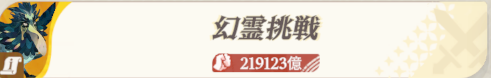
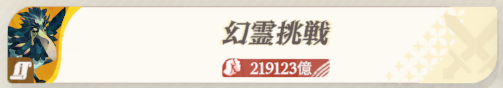
Add --step1 option to select entry button (幻霊挑戦 / 挑戦 / random)
- afk_journey_auto.py: add --step1 argparse option; Step1 now clicks
  the specified button (幻霊挑戦, 挑戦, or random choice between them)
- make_templates.py: add 挑戦_btn cutout entry
- templates/: add 挑戦_btn.png; update 幻霊挑戦_btn.png
- README.md: update flowchart, template table, and usage examples
- .gitignore: exclude .claude/

diff --git a/afk_journey_auto.py b/afk_journey_auto.py
@@ -22,10 +22,12 @@ AFK Journey - 幻霊挑戦 自動操作スクリプト
 """
 
 import os
+import argparse
 import ctypes
 import pyautogui
 import cv2
 import numpy as np
+import random
 import time
 import sys
 import logging
@@ -65,7 +67,8 @@ WINDOW_TITLE = "AFK Journey"
 # テンプレート画像ファイルのパス（スクリプトと同じフォルダに置く）
 # ★ 下記のパスを実際の画像ファイルのパスに変更してください
 TEMPLATES = {
-    "幻霊挑戦_btn":     "templates/幻霊挑戦_btn.png",       # Step1: 「幻霊挑戦」ボタン
+    "幻霊挑戦_btn":     "templates/幻霊挑戦_btn.png",       # Step1: 「幻霊挑戦」ボタン（左下）
+    "挑戦_btn":         "templates/挑戦_btn.png",           # Step1: 「挑戦」ボタン（右下）
     "クリア編成_btn":   "templates/クリア編成_btn.png",     # Step2: 「クリア編成」ボタン
     "一括適用_btn":     "templates/一括適用_btn.png",       # Step3: 「一括適用」ボタン
     "オート挑戦_btn":   "templates/オート挑戦_btn.png",     # Step4: 「オート挑戦」ボタン
@@ -320,9 +323,10 @@ def activate_game_window():
         return False
 
 
-def run():
+def run(step1_mode: str):
     log.info("=" * 60)
     log.info("AFK Journey 幻霊挑戦 自動操作 開始")
+    log.info(f"Step1モード: {step1_mode}")
     log.info("停止: Ctrl+C  または  マウスを画面左上角へ移動")
     log.info("=" * 60)
 
@@ -335,14 +339,23 @@ def run():
         sys.exit(1)
     log.info("  操作開始！")
 
-    # ── Step1: 幻霊挑戦ボタンをクリック ──────────────────────────────────
-    log.info("[Step1] 幻霊挑戦ボタンを探しています...")
+    # ── Step1: モードに応じたボタンをクリック ────────────────────────────
+    if step1_mode == "random":
+        target_key = random.choice(["幻霊挑戦_btn", "挑戦_btn"])
+        log.info(f"[Step1] ランダム選択: {target_key}")
+    elif step1_mode == "挑戦":
+        target_key = "挑戦_btn"
+    else:
+        target_key = "幻霊挑戦_btn"
+
+    log.info(f"[Step1] {target_key} を探しています...")
     screen_data = screenshot_np()
-    if not click_template("幻霊挑戦_btn", screen_data, wait=WAIT_SCREEN_TRANS):
-        log.error("「幻霊挑戦」ボタンが見つかりません。")
+    if click_template(target_key, screen_data, wait=WAIT_SCREEN_TRANS):
+        log.info(f"[Step1] 完了（{target_key}）→ 幻霊先鋒ステージ画面へ遷移中...")
+    else:
+        log.error(f"「{target_key}」が見つかりません。")
         log.error("ゲームを「ステージ選択」画面にしてから再実行してください。")
         sys.exit(1)
-    log.info("[Step1] 完了 → 幻霊先鋒ステージ画面へ遷移中...")
 
     # ── Step2以降のメインループ ───────────────────────────────────────────
     while retry_count < MAX_RETRIES:
@@ -440,8 +453,17 @@ def run():
 # ─── エントリーポイント ──────────────────────────────────────────────────────
 
 if __name__ == "__main__":
+    parser = argparse.ArgumentParser(description="AFK Journey 幻霊挑戦 自動操作")
+    parser.add_argument(
+        "--step1",
+        choices=["幻霊挑戦", "挑戦", "random"],
+        default="幻霊挑戦",
+        help="Step1で押すボタンを選択 (デフォルト: 幻霊挑戦)",
+    )
+    args = parser.parse_args()
+
     try:
-        run()
+        run(step1_mode=args.step1)
     except KeyboardInterrupt:
         log.info("\n[停止] ユーザーによる中断 (Ctrl+C)")
     except pyautogui.FailSafeException:

diff --git a/make_templates.py b/make_templates.py
@@ -36,6 +36,7 @@ OUTPUT_DIR = "templates"
 # (テンプレートファイル名, 使用するスクショファイル名, 切り出す場所の説明)
 TARGETS = [
     ("幻霊挑戦_btn",   "ステージ選択.png",       "左下の緑ボタン「幻霊挑戦」"),
+    ("挑戦_btn",       "ステージ選択.png",       "右下の緑ボタン「挑戦」"),
     ("クリア編成_btn", "幻霊先鋒ステージ.png",   "左下の「クリア編成」ボタン"),
     ("オート挑戦_btn", "幻霊先鋒ステージ.png",   "下部中央の「オート挑戦」ボタン"),
     ("一括適用_btn",   "クリア編成.png",          "下部の緑ボタン「一括適用」"),

diff --git a/README.md b/README.md
@@ -23,8 +23,13 @@ afkj_autoplay/
 
 ```mermaid
 flowchart TD
-    A([スクリプト開始]) --> B[Step1: 幻霊挑戦ボタンをクリック]
-    B --> C[Step2: クリア編成をクリック]
+    A([スクリプト開始]) --> B{Step1: --step1 オプション}
+    B -->|幻霊挑戦| B1[幻霊挑戦ボタンをクリック]
+    B -->|挑戦| B2[挑戦ボタンをクリック]
+    B -->|random| B3[ランダムに選択してクリック]
+    B1 --> C[Step2: クリア編成をクリック]
+    B2 --> C
+    B3 --> C
     C --> D[Step3: 一括適用をクリック]
     D --> E[Step4: オート挑戦をクリック]
     E --> F[Step5: 戦闘終了を待機]
@@ -74,6 +79,7 @@ python make_templates.py
 | テンプレート名 | 使用スクショ | 切り出す場所 |
 |---|---|---|
 | 幻霊挑戦_btn | ステージ選択.png | 左下の「幻霊挑戦」ボタン |
+| 挑戦_btn | ステージ選択.png | 右下の「挑戦」ボタン（数値を除いた文字・アイコン部分） |
 | クリア編成_btn | 幻霊先鋒ステージ.png | 左下の「クリア編成」ボタン |
 | オート挑戦_btn | 幻霊先鋒ステージ.png | 下部中央の「オート挑戦」ボタン |
 | 一括適用_btn | クリア編成.png | 下部の「一括適用」ボタン |
@@ -84,9 +90,17 @@ python make_templates.py
 | もう一度_btn | 戦闘敗北.png | 右下の「もう一度」ボタン |
 
 ### 5. 自動操作の実行
-AFK Journey を起動し、「ステージ選択」画面（幻霊挑戦ボタンが見える状態）にしてから、**管理者権限のターミナル**で実行：
+AFK Journey を起動し、「ステージ選択」画面（幻霊挑戦・挑戦ボタンが見える状態）にしてから、**管理者権限のターミナル**で実行：
+
 ```
+# 幻霊挑戦ボタンをクリック（デフォルト）
 python afk_journey_auto.py
+
+# 挑戦ボタンをクリック
+python afk_journey_auto.py --step1 挑戦
+
+# 幻霊挑戦 / 挑戦 をランダムに選択してクリック
+python afk_journey_auto.py --step1 random
 ```
 
 > ⚠ **管理者権限が必須です。** 通常権限で実行するとクリックがゲームに届きません。
